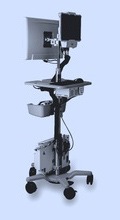
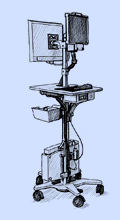
Fixed alignment of equipment tiles; fixed image; tweaked "Advisory Board" language

diff --git a/index.html b/index.html
@@ -38,7 +38,7 @@
     <p>Health systems spend millions on capital equipment that sits idle. Cohealo's platform and logistics services turn that idle inventory into shared savings, eliminating new capital purchases, reducing rentals, and cutting operating costs.</p>
     <div class="hero-actions">
       <button type="button" class="hero-cta" id="watchOverviewBtn" aria-expanded="false" aria-controls="heroVideoTile">Watch a quick overview</button>
-      <a href="https://www.advisory.com/daily-briefing/2019/01/28/kaiser-share" target="_blank" rel="noopener noreferrer" class="hero-link">Read Advisory Board on Our Savings</a>
+      <a href="https://www.advisory.com/daily-briefing/2019/01/28/kaiser-share" target="_blank" rel="noopener noreferrer" class="hero-link">Advisory Board Praises Our Savings</a>
     </div>
   </div>
   <div class="hero-stats">
@@ -85,7 +85,7 @@
       </div>
     </div>
     <div class="equip-grid">
-      <div class="eq-card drift">
+      <div class="eq-card">
         <div class="eq-img-wrap"><img src="images/eq-video-tower.jpg" alt="Video tower" width="120" height="220" loading="lazy" /></div>
         <div class="eq-overlay">
           <div class="eq-name">Video Tower</div>
@@ -93,7 +93,7 @@
           <div class="eq-cases">187 cases/year</div>
         </div>
       </div>
-      <div class="eq-card drift">
+      <div class="eq-card">
         <div class="eq-img-wrap"><img src="images/eq-orthopedic-table.jpg" alt="Orthopedic table" width="120" height="120" loading="lazy" /></div>
         <div class="eq-overlay">
           <div class="eq-name">Ortho Table</div>
@@ -101,7 +101,7 @@
           <div class="eq-cases">67 cases/year</div>
         </div>
       </div>
-      <div class="eq-card drift">
+      <div class="eq-card">
         <div class="eq-img-wrap"><img src="images/eq-guidance-system.jpg" alt="Surgical guidance system" width="120" height="220" loading="lazy" /></div>
         <div class="eq-overlay">
           <div class="eq-name">Guidance System</div>
@@ -109,7 +109,7 @@
           <div class="eq-cases">9 cases/year</div>
         </div>
       </div>
-      <div class="eq-card drift">
+      <div class="eq-card">
         <div class="eq-img-wrap"><img src="images/eq-ultrasound.jpg" alt="Ultrasound system" width="120" height="220" loading="lazy" /></div>
         <div class="eq-overlay">
           <div class="eq-name">Ultrasound<br>System</div>
@@ -117,7 +117,6 @@
           <div class="eq-cases">94 cases/year</div>
         </div>
       </div>
-    </div>
     </div>
   </div>
 </section>
